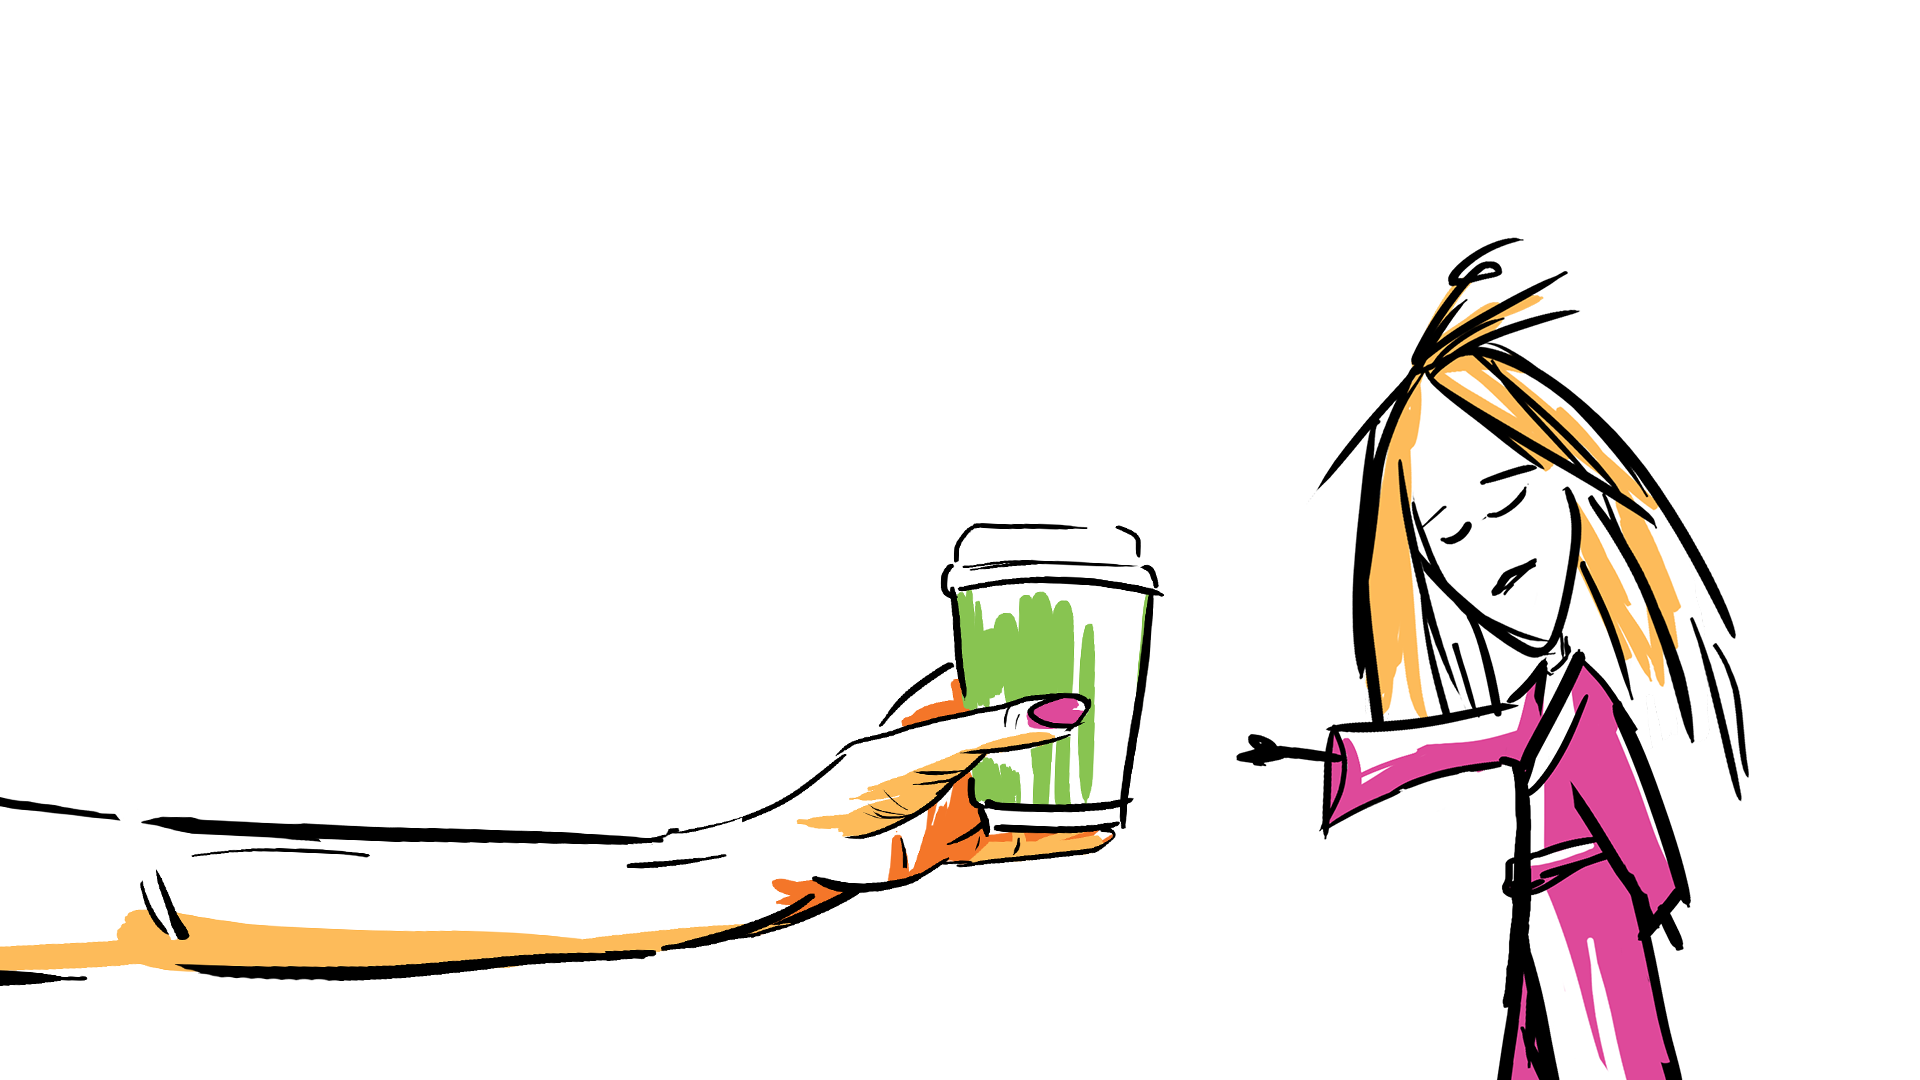
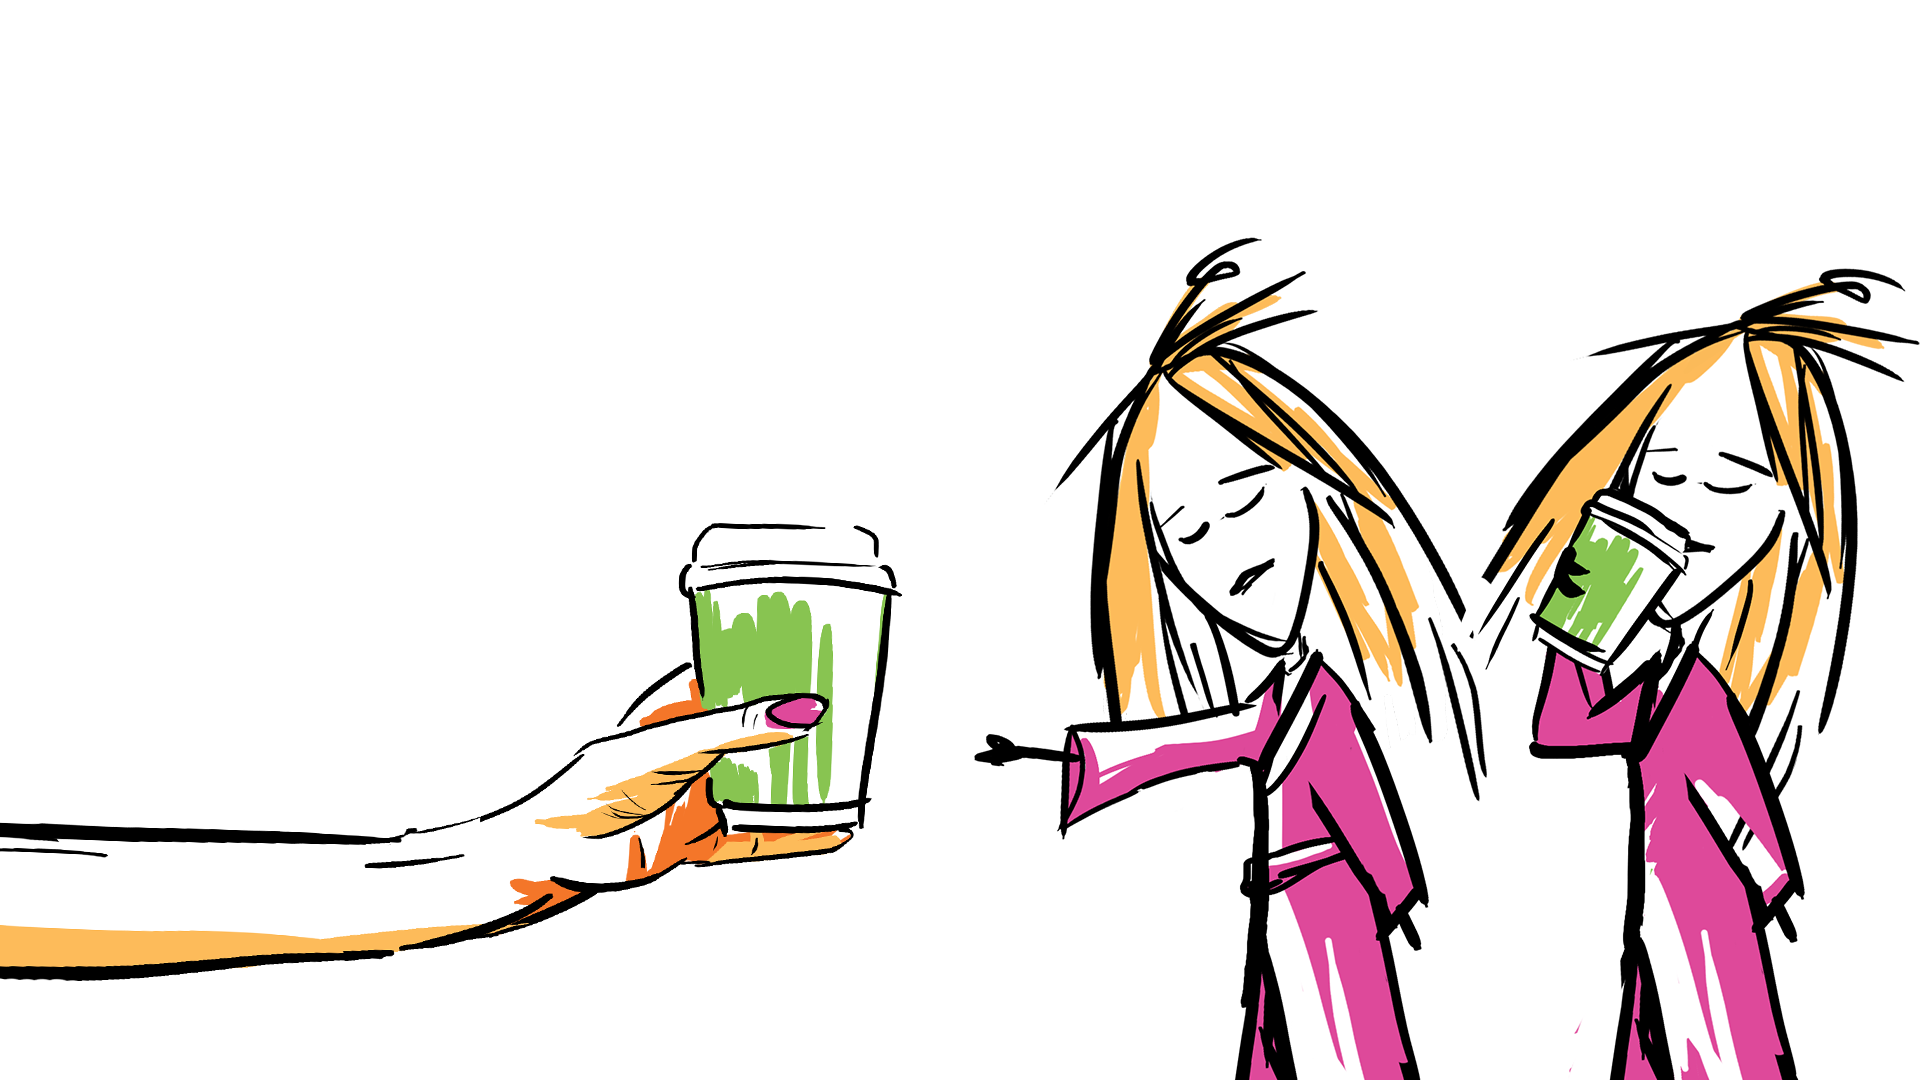
add and change jolka images

Changed region(s): [[0.0, 0.2139, 1.0, 1.0], [0.375, 0.4583, 0.4062, 0.4889]]

diff --git a/src/data/plainGalleryData.ts b/src/data/plainGalleryData.ts
@@ -60,6 +60,7 @@ import jolkaScena3 from "$img/projects/jolka/jolka-scena3.png";
 import jolkaScena4 from "$img/projects/jolka/jolka-scena4.png";
 import jolkaScena5 from "$img/projects/jolka/jolka-scena5.png";
 import jolkaScena6 from "$img/projects/jolka/jolka-scena6.png";
+import jolkaScena7 from "$img/projects/jolka/jolka_eksplozja.png";
 import jolkaMp4 from "$videos/jolka_animacja_ilustracja_panel.mp4";
 // import jolkaMp41 from "$videos/jolka_animacja_ilustracja_panel1.mp4";
 import jolkaShortMp4 from "$videos/jolka_animacja_ilustracja_krotka.mp4";
@@ -719,20 +720,6 @@ const plainGalleryData: PlainGalleryData = {
 
         plainGalleryContent: [
             {
-                component: "Video",
-
-                configuration: {
-                    withH1: false,
-                    withDescription: false,
-                },
-
-                content: {
-                    video: jolkaMp4,
-                    h1: "",
-                    description: "",
-                },
-            },
-            {
                 component: "ImageImage",
 
                 configuration: {
@@ -822,7 +809,31 @@ const plainGalleryData: PlainGalleryData = {
                     img: jolkaScena3,
                 },
             },
+            {
+                component: "Image",
 
+                configuration: {
+                    withH1: false,
+                    withDescription: false,
+                },
+                content: {
+                    img: jolkaScena7,
+                },
+            },
+            {
+                component: "Video",
+
+                configuration: {
+                    withH1: false,
+                    withDescription: false,
+                },
+
+                content: {
+                    video: jolkaMp4,
+                    h1: "",
+                    description: "",
+                },
+            },
 
 
 
